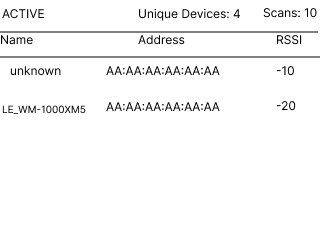
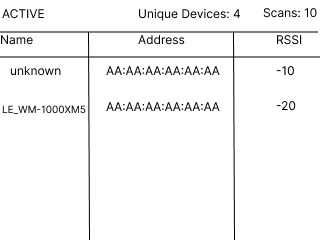
Fixed grammatical issues and update wireframe

Changed region(s): [[0.7188, 0.175, 0.75, 0.9625], [0.25, 0.175, 0.2812, 0.9625]]

diff --git a/documentation/architecture.md b/documentation/architecture.md
@@ -22,8 +22,8 @@ and high level interfaces. For this product, we will be focusing on the Generic 
 
 ![Bluetooth Host protocol & profile layers](images/ble_host_layers.png)
 
-The GAP provides use ways to for our device to be connection or connection-less oriented.
-We will be using a connection-less observer profile as an observer.
+The GAP provides us ways to for our device to be connection or connection-less oriented.
+We will be using a connection-less observer GAP.
 
 This GAP configuration will give us the capability to scan for advertising packets around us
 without having to send one back. This reduces power consumption as well as CPU usage.
@@ -34,13 +34,15 @@ another thread.
 
 ### Passive vs Active Scanning
 Passive scanning involves only listening for advertising packets without sending any scan requests. This
-allows for lower power consumption and is faster. However, most passive scan packets do not include names
+allows for lower power consumption and is faster. However, most passive scan packets do not include information
 such as device name.
 
-Active scanning will detect a advertising packet and then issue a scan response in return to obtain more
-information. This will often times include information such as device name or custom service information.
-The downside of this is that it requires more power, increases discovery time, and potentially causes
-more interference which may be in violation of regulatory compliance.
+Active scanning will detect a advertising packet and then issue a scan request in return to obtain more
+information. The scan request response packet will often times include information such as device name
+or custom service information. It is up to the advertiser to choose to respond to the scan request so
+it is not always a guarantee that more information will be obtained. The downside of this is that it
+requires more power, increases discovery time, and potentially causes more interference which may be
+in violation of regulatory compliance.
 
 ## Limitations of the STM52L475
 The Bluetooth module on the STM52L475 device only supports Bluetooth 4.1. This means we are not able to utilize
@@ -67,10 +69,11 @@ As detailed in the requirements, repeat devices should not count as "new" observ
 already exist in the database, its RSSI value must be updated with the new one. If it does not exist,
 insert it into the database. This is referred to internally as an "upsert" operation.
 
-It is important to note that simple database is **NOT** thread safe. Careful consideration must be taken on
-the design of the list and its uses to ensure that memory is not corrupted.
+It is important to note that this simple database is **NOT** thread safe. Careful consideration 
+must be taken on the design of the list and its uses to ensure that memory is not corrupted.
 
-This linked list will implemented on the heap so there are memory considerations to be careful of.
+This linked list will be implemented on the heap so there are memory considerations to be careful of
+such as appropriate heap sizing.
 
 ## Process Flow of Incoming Scans to Storage in Database
 New advertising packets are detected by the Bluetooth sensor. Zephyr will trigger a callback for each detected packet.
